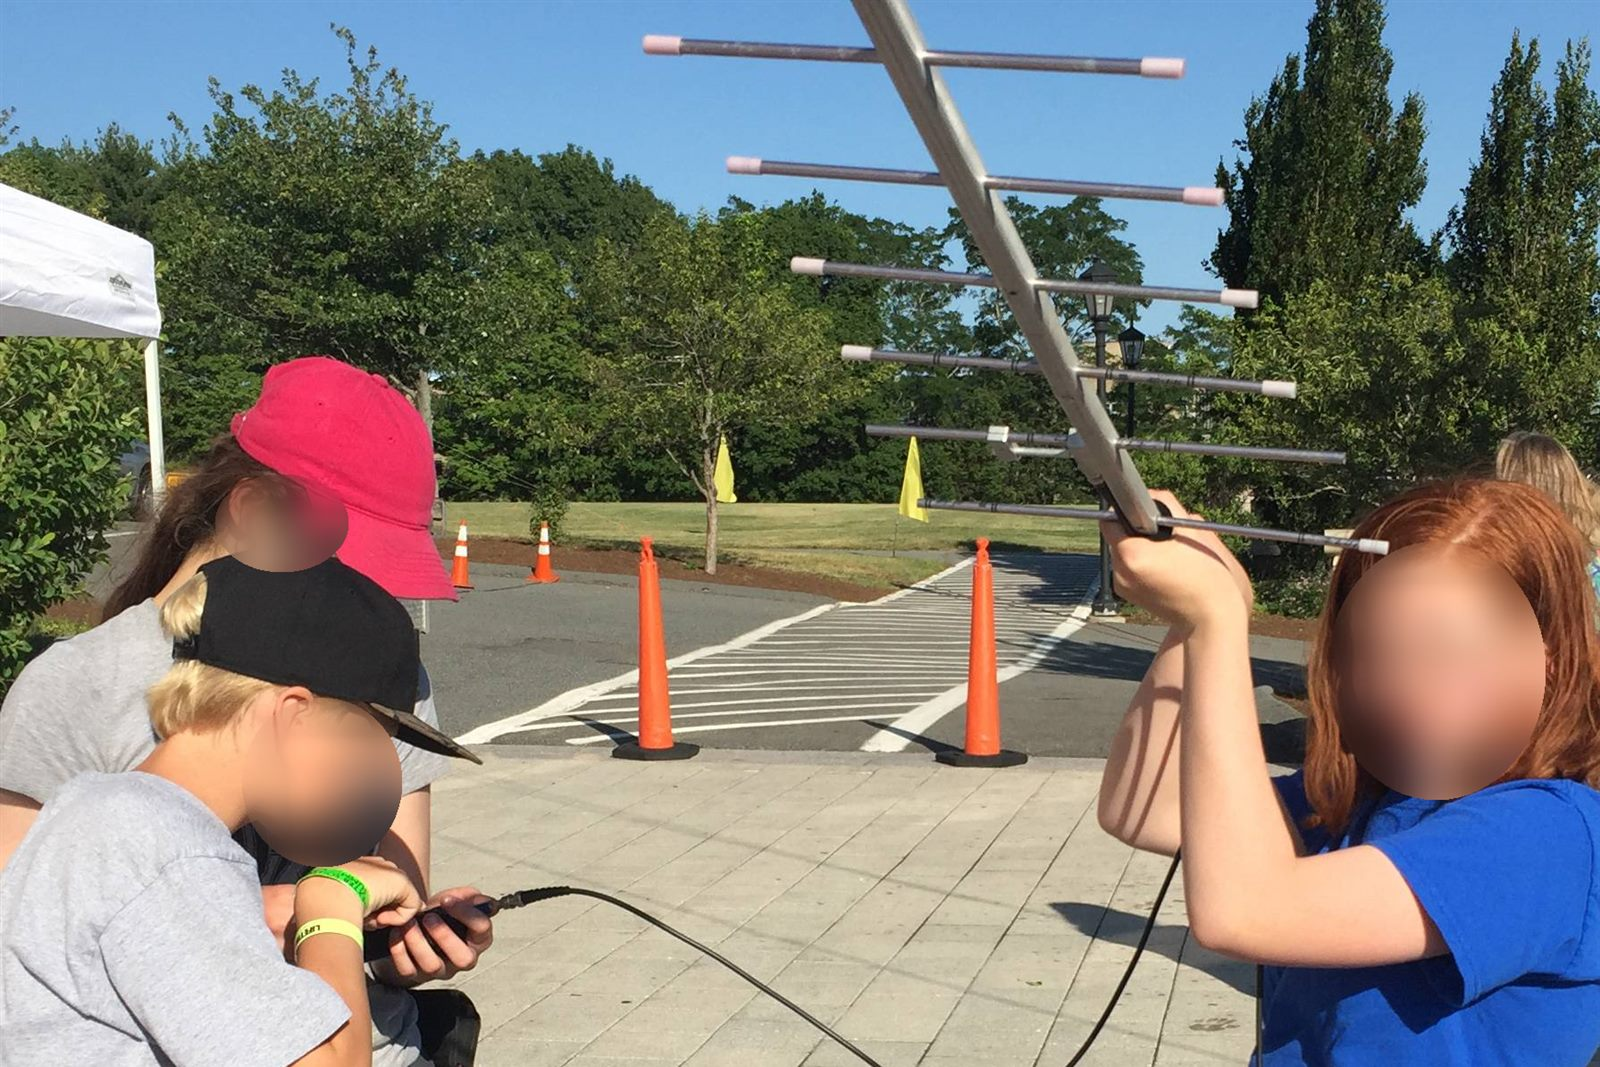
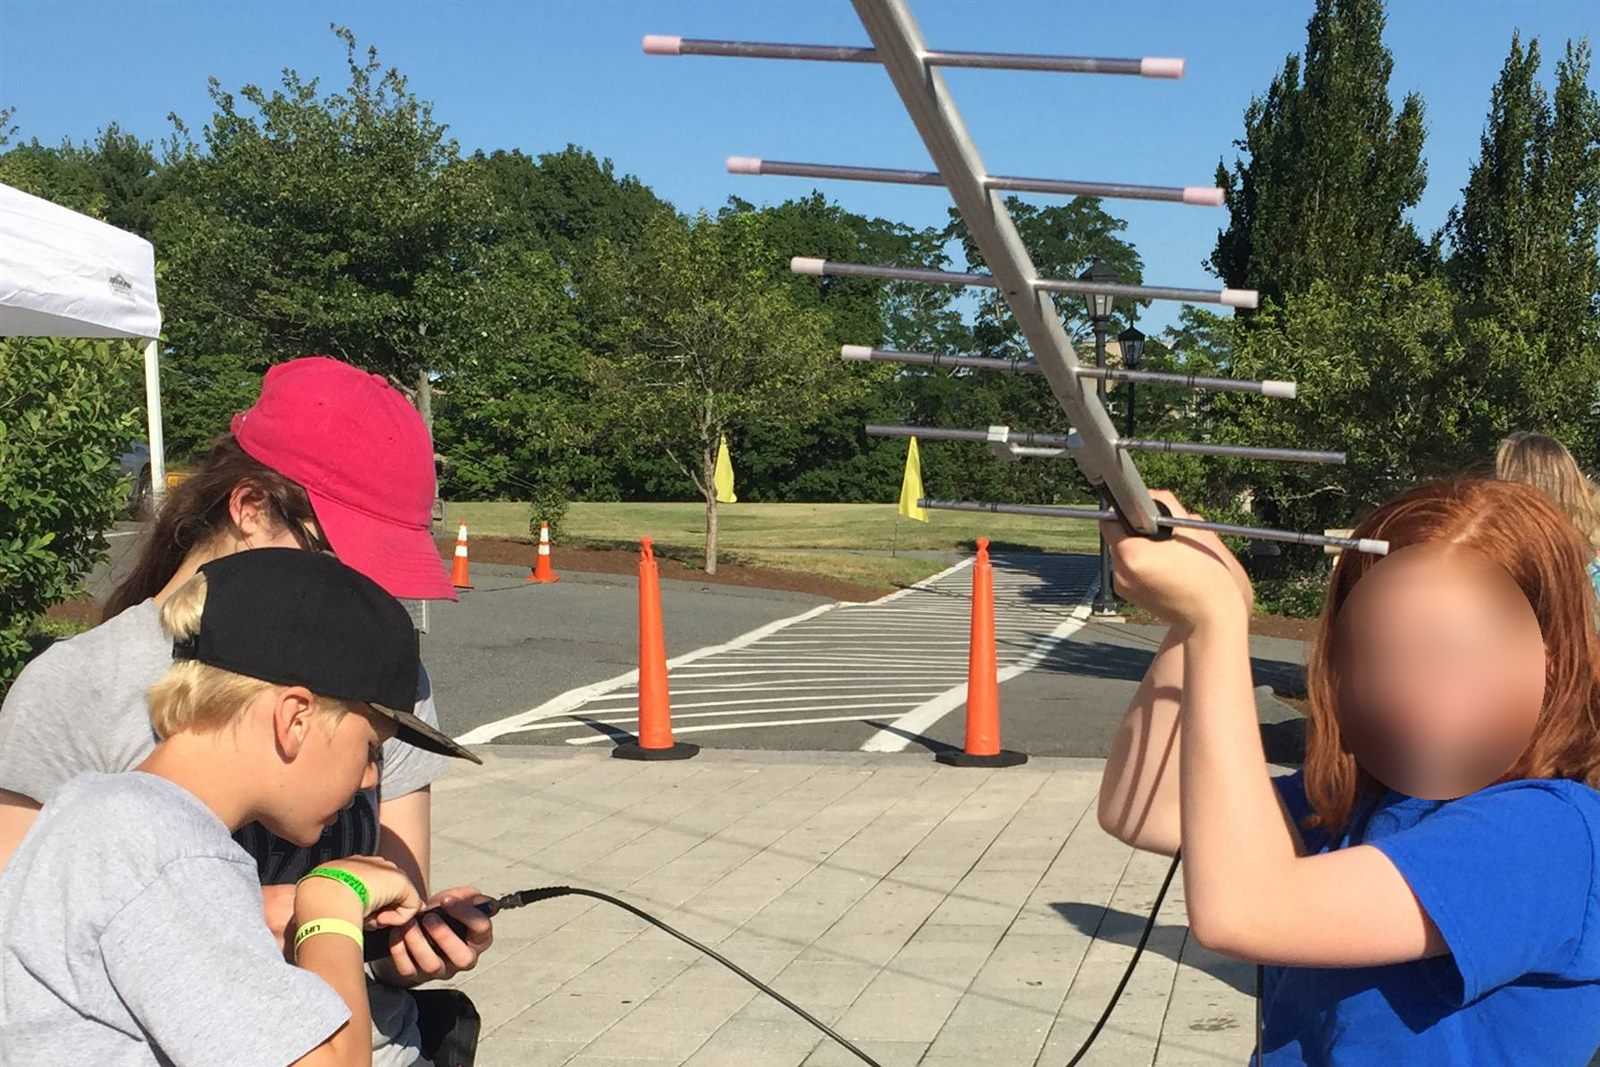
Fox Hunting page: "the fox." in red on its own line; only the antenna holder's face blurred; caption no longer says club members

Changed region(s): [[0.1562, 0.6495, 0.25, 0.8351], [0.125, 0.433, 0.2188, 0.5567]]

diff --git a/index.html b/index.html
@@ -71,7 +71,7 @@
     <section class="hero">
       <div>
         <div class="k-tag kicker"><span class="dot"></span>Fox hunting</div>
-        <h1 class="k-display">Find the <span class="k-serif">fox.</span></h1>
+        <h1 class="k-display">Find<br><span class="k-serif">the fox.</span></h1>
       </div>
       <div>
         <p>Someone hides a small transmitter, the “fox,” and everyone else tracks it down using radio direction finding. Handheld antennas, a map full of bearing lines, and a lot of running around.</p>
@@ -83,8 +83,8 @@
     </section>
 
     <figure class="shot">
-      <div class="k-photo"><img src="img/fox-yagi.jpg" width="1600" height="1067" alt="One club member holds up a Yagi antenna while two others check the radio it is connected to"></div>
-      <figcaption>Club members taking a bearing: one aims the Yagi antenna, two watch the signal on the radio.</figcaption>
+      <div class="k-photo"><img src="img/fox-yagi.jpg" width="1600" height="1067" alt="One person holds up a Yagi antenna while two others check the radio it is connected to"></div>
+      <figcaption>Taking a bearing: one aims the Yagi antenna, two watch the signal on the radio.</figcaption>
     </figure>
 
     <section class="k-section" aria-labelledby="what">
